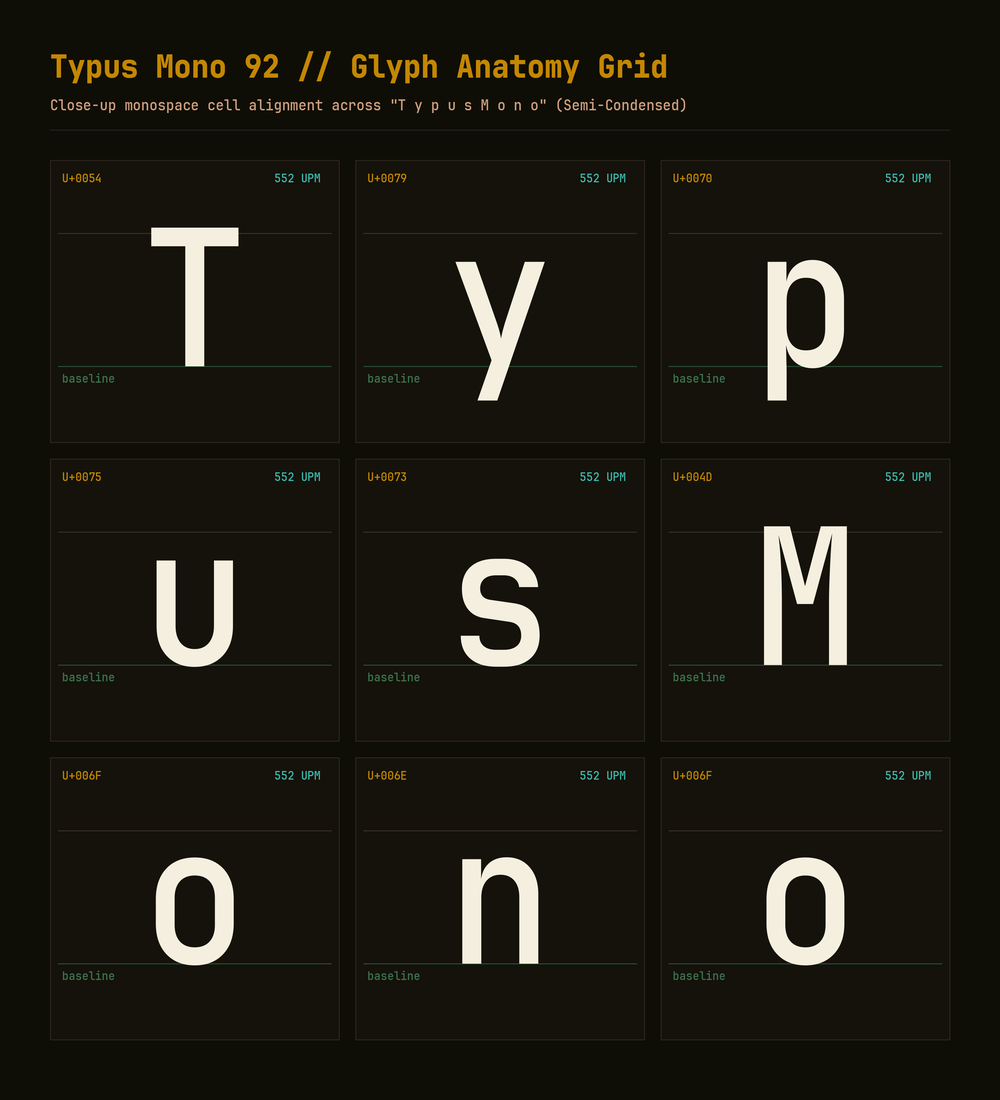
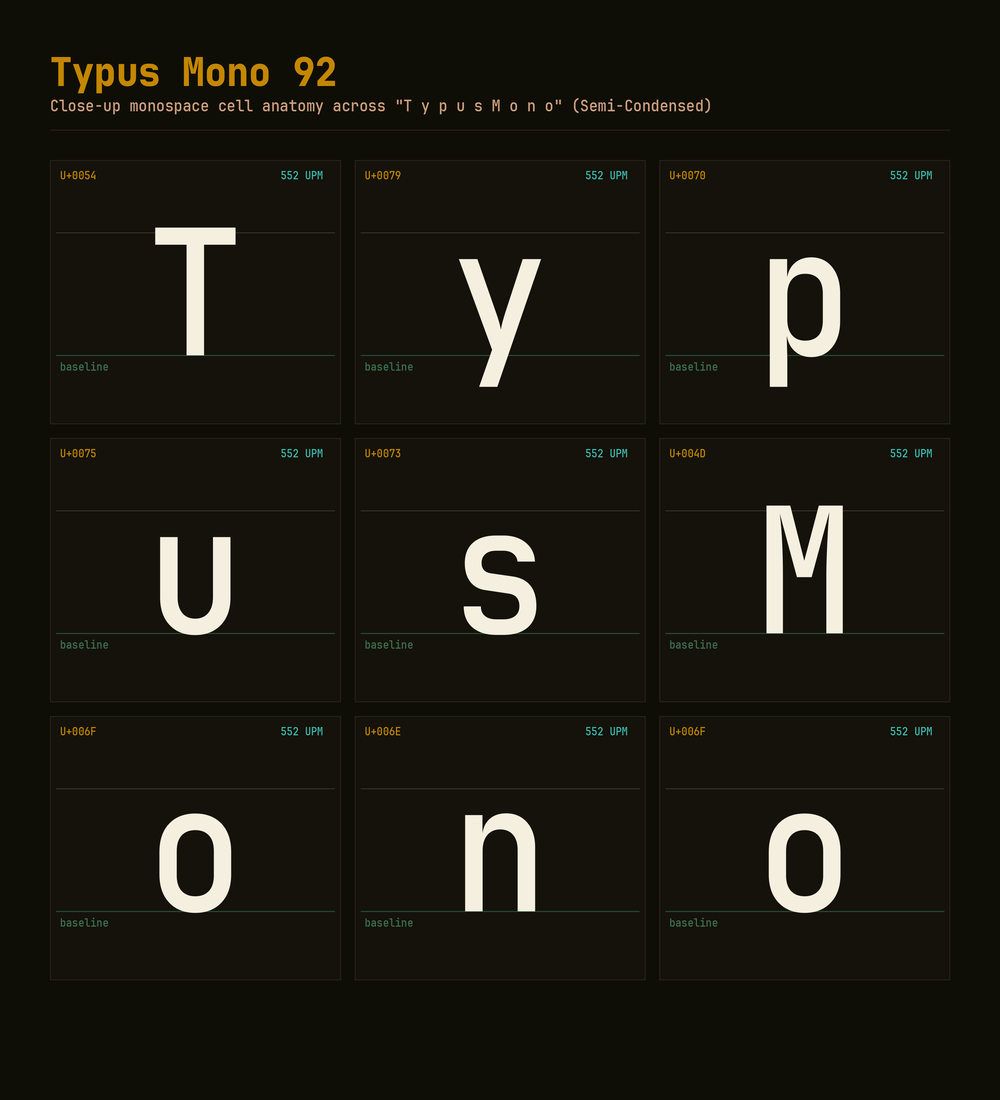
docs: align grid specimen padding, typography, and vertical metrics with preview
- Match header font size (40pt) and baseline (Y=45) exactly with preview.png
- Rebalance 3x3 grid padding to leave matching 120px bottom margin
- Regenerate grid_specimen.png with pixel-perfect vertical alignment

diff --git a/generate_grid_specimen.py b/generate_grid_specimen.py
@@ -22,41 +22,43 @@ def main():
     img = Image.new("RGB", (W, H), color="#0f0e06")
     draw = ImageDraw.Draw(img)
 
-    header_font = ImageFont.truetype(font_bold_path, 32 * S)
-    sub_font = ImageFont.truetype(font_path, 15 * S)
-    guide_font = ImageFont.truetype(font_path, 12 * S)
+    header_font = ImageFont.truetype(font_bold_path, 40 * S)
+    sub_font = ImageFont.truetype(font_path, 16 * S)
+    guide_font = ImageFont.truetype(font_path, 11 * S)
 
     draw.text(
         (50 * S, 45 * S),
-        "Typus Mono 92 // Glyph Anatomy Grid",
+        "Typus Mono 92",
         fill="#c48702",
         font=header_font,
     )
     draw.text(
         (50 * S, 95 * S),
-        'Close-up monospace cell alignment across "T y p u s M o n o" (Semi-Condensed)',
+        'Close-up monospace cell anatomy across "T y p u s M o n o" (Semi-Condensed)',
         fill="#cf9f7f",
         font=sub_font,
     )
-    draw.line([(50 * S, 130 * S), (950 * S, 130 * S)], fill="#26211d", width=1 * S)
+    draw.line(
+        [(50 * S, 130 * S), (950 * S, 130 * S)], fill="#26211d", width=1 * S
+    )
 
     grid_x0 = 50 * S
     grid_y0 = 160 * S
     grid_w = 900 * S
-    grid_h = 880 * S
+    grid_h = 820 * S
 
     cols, rows = 3, 3
-    gap = 16 * S
+    gap = 14 * S
     cell_w = (grid_w - (cols - 1) * gap) // cols
     cell_h = (grid_h - (rows - 1) * gap) // rows
 
     letters = [["T", "y", "p"], ["u", "s", "M"], ["o", "n", "o"]]
 
-    font_size = 190 * S
+    font_size = 175 * S
     letter_font = ImageFont.truetype(font_path, font_size)
 
     cell_bg = "#14120a"
-    cell_border = "#2c251d"
+    cell_border = "#26211d"
     guide_color = "#383028"
     baseline_guide = "#284d38"
     text_color = "#f5efe0"
@@ -73,16 +75,16 @@ def main():
                 [x0, y0, x1, y1], fill=cell_bg, outline=cell_border, width=1 * S
             )
 
-            baseline_y = y0 + round(cell_h * 0.73)
+            baseline_y = y0 + round(cell_h * 0.74)
             cap_y = baseline_y - round(font_size * 0.70)
 
             draw.line(
-                [(x0 + 8 * S, cap_y), (x1 - 8 * S, cap_y)],
+                [(x0 + 6 * S, cap_y), (x1 - 6 * S, cap_y)],
                 fill=guide_color,
                 width=1 * S,
             )
             draw.line(
-                [(x0 + 8 * S, baseline_y), (x1 - 8 * S, baseline_y)],
+                [(x0 + 6 * S, baseline_y), (x1 - 6 * S, baseline_y)],
                 fill=baseline_guide,
                 width=1 * S,
             )
@@ -99,19 +101,19 @@ def main():
             )
 
             draw.text(
-                (x0 + 12 * S, y0 + 10 * S),
+                (x0 + 10 * S, y0 + 8 * S),
                 f"U+{ord(char):04X}",
                 fill="#c48702",
                 font=guide_font,
             )
             draw.text(
-                (x1 - 65 * S, y0 + 10 * S),
+                (x1 - 60 * S, y0 + 8 * S),
                 "552 UPM",
                 fill="#3dbbb0",
                 font=guide_font,
             )
             draw.text(
-                (x0 + 12 * S, baseline_y + 4 * S),
+                (x0 + 10 * S, baseline_y + 4 * S),
                 "baseline",
                 fill="#3d7350",
                 font=guide_font,
